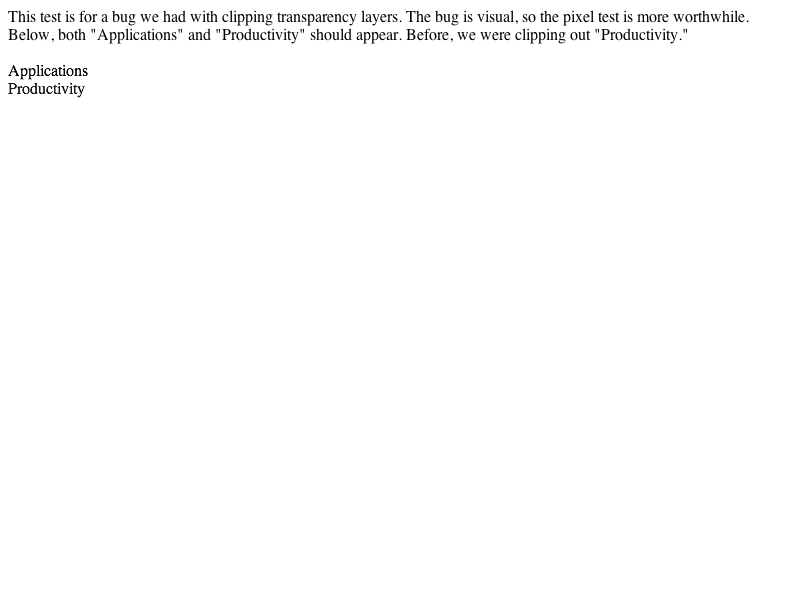
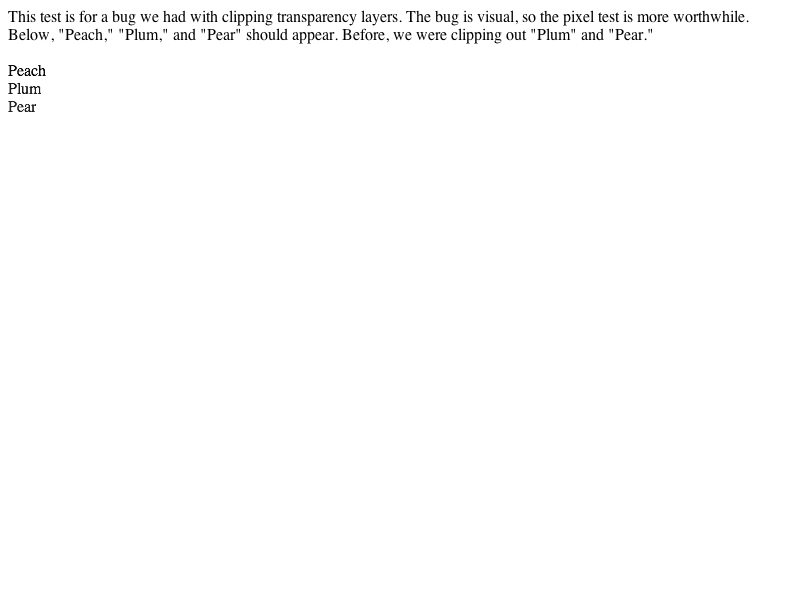
WebCore:         Reviewed by Hyatt.
Follow-up to the fix below for 4843226.

        * rendering/RenderLayer.cpp:
        (WebCore::transparencyClipBox): Has to be recursive or we will miss 
        out on grandchildren!

LayoutTests:
        Reviewed by Hyatt.

        Updated test for 4843226 to include a grandchild.

        * fast/clip/nestedTransparencyClip-expected.checksum:
        * fast/clip/nestedTransparencyClip-expected.png:
        * fast/clip/nestedTransparencyClip-expected.txt:
        * fast/clip/nestedTransparencyClip.html:

git-svn-id: https://svn.webkit.org/repository/webkit/trunk@19065 268f45cc-cd09-0410-ab3c-d52691b4dbfc

Changed region(s): [[0.0625, 0.03, 0.8438, 0.09], [0.0, 0.09, 0.125, 0.18]]

diff --git a/LayoutTests/fast/clip/nestedTransparencyClip.html b/LayoutTests/fast/clip/nestedTransparencyClip.html
@@ -1,5 +1,7 @@
-This test is for a bug we had with clipping transparency layers. The bug is visual, so the pixel test is more worthwhile. Below, both "Applications" and "Productivity" should appear. Before, we were clipping out "Productivity."<br><br>
+This test is for a bug we had with clipping transparency layers. The bug is visual, so the pixel test is more worthwhile. Below, "Peach," "Plum," and "Pear" should appear. Before, we were clipping out "Plum" and "Pear."<br><br>
 
-<div style="opacity:.95;">Applications
-    <div style="position:absolute; opacity:.95;">Productivity</div>
+<div style="opacity:.95;">Peach
+    <div style="position:absolute; opacity:.95;">Plum
+        <div style="position:absolute; opacity:.95;">Pear</div>
+    </div>
 </div>

diff --git a/WebCore/rendering/RenderLayer.cpp b/WebCore/rendering/RenderLayer.cpp
@@ -459,7 +459,7 @@ static IntRect transparencyClipBox(RenderLayer* l)
     // Note: we don't have to walk z-order lists since transparent elements always establish
     // a stacking context.  This means we can just walk the layer tree directly. 
     for (RenderLayer* curr = l->firstChild(); curr; curr = curr->nextSibling())
-        clipRect.unite(curr->absoluteBoundingBox());
+        clipRect.unite(transparencyClipBox(curr));
     
     return clipRect;
 }
